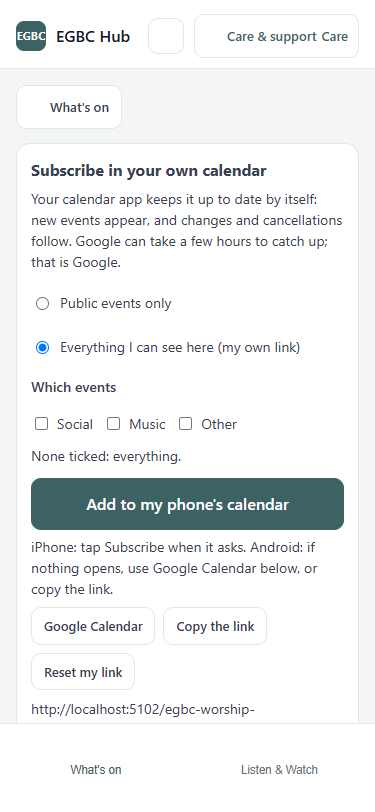
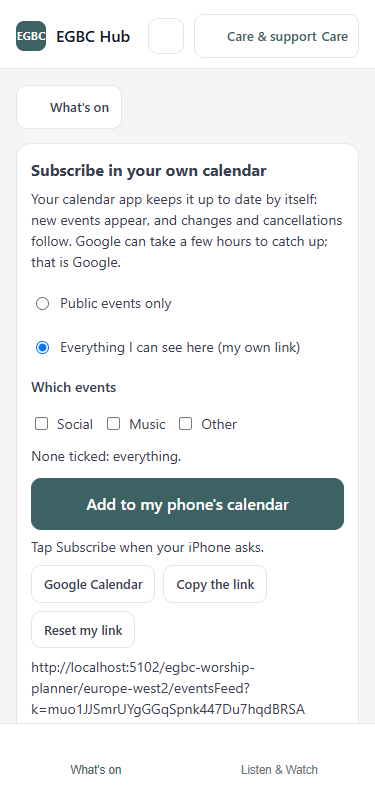
Events: Subscribe on Android, Email me the link, the k3 register race (F-198)
Android leads with "Everything coming up is always in What's on in this
app."; adding it to Google or Outlook is optional, once on a computer,
with the steps, a big Copy and "Email me the link" (emailMyFeedLink:
the signed-in person's own address only, 5 an hour). No webcal button
on Android. Callables wait for the sign-in to settle (the
phone-subscribe flake). kids-checkin's register: only the latest draw
fills the table (k3-morning).

Changed region(s): [[0.0587, 0.6466, 0.8507, 0.8929]]

diff --git a/v2/egbc-events.js b/v2/egbc-events.js
@@ -587,13 +587,19 @@
     });
   }
 
-  /* ---- Subscribe in your own calendar (R7, F-182; on phones F-197) ----
+  /* ---- Subscribe in your own calendar (R7, F-182; phones F-197, F-198) ----
      One card for whatson.html and the app's What's on. The host keeps the
      state { signedIn, mine, cats, msg, copied } and draws subscribeHtml
      again after subscribeAct. Buttons and boxes carry ATTR="sub:...".
-     On a phone: one big "Add to my phone's calendar" (the webcal:// link:
-     iPhone's Calendar, and on Android whichever calendar app takes it),
-     then Google Calendar and "Copy the link" for when nothing opens. */
+       iPhone    one big "Add to my phone's calendar" (webcal://): iPhone's
+                 Calendar asks "Subscribe?"
+       Android   NO webcal button: Android has no webcal handler, and
+                 neither Google Calendar nor Outlook can subscribe from a
+                 link on the phone (Martin's phone, 15 Oct). It leads with
+                 "Everything coming up is always in What's on"; then, as
+                 optional, add it once on a computer: the steps, a big
+                 Copy, and "Email me the link" (own address only)
+       computer  Google / Apple or Outlook / Copy, as before */
   function feedBase() {
     var o = (global.firebase && firebase.apps.some(function (a) { return a.name === 'egbc'; }) ? firebase.app('egbc').options : {}) || {};
     var h = global.location.hostname, local = h === 'localhost' || h === '127.0.0.1';
@@ -604,35 +610,70 @@
     var mine = st.signedIn && st.mine;
     return feedBase() + (mine ? '?k=' + encodeURIComponent(st.mine) : '?church=1') + (st.cats && st.cats.length ? '&cat=' + st.cats.join(',') : '');
   }
-  function isPhone() {
+  function deviceKind() {
     var ua = (global.navigator && navigator.userAgent) || '';
-    return /iPhone|iPad|iPod|Android/i.test(ua) || (/Macintosh/.test(ua) && navigator.maxTouchPoints > 1);
+    if (/Android/i.test(ua)) return 'android';
+    if (/iPhone|iPad|iPod/i.test(ua) || (/Macintosh/.test(ua) && navigator.maxTouchPoints > 1)) return 'iphone';
+    return 'computer';
   }
-  function subscribeHtml(st, used, attr, phone) {
-    attr = attr || 'data-sub'; if (phone == null) phone = isPhone();
+  function isPhone() { return deviceKind() !== 'computer'; }
+  /* Callables need the sign-in settled: straight after a page opens it is
+     not yet, and EGBCAuth.call then fails (seen as a flake in
+     phone-subscribe.test, 15 Oct). */
+  function whenSignedIn() {
+    return new Promise(function (resolve) {
+      try { var a = firebase.auth(firebase.app('egbc')), off = a.onAuthStateChanged(function (u) { off(); resolve(u); }); }
+      catch (e) { resolve(null); }
+    });
+  }
+  function callSignedIn(name, data) {
+    return whenSignedIn().then(function (u) { if (!u) throw new Error('Sign in first.'); return global.EGBCAuth.call(name, data); });
+  }
+  function subscribeHtml(st, used, attr, kind) {
+    attr = attr || 'data-sub'; kind = kind || deviceKind();
     var mine = !!(st.signedIn && st.mine), url = feedUrl(st), web = url.replace(/^https?:/, 'webcal:');
     var google = 'https://calendar.google.com/calendar/r?cid=' + encodeURIComponent(web);
     var tick = 'style="display:flex;gap:8px;align-items:center;min-height:44px"';
-    return '<h2 style="margin:0 0 6px;font-size:16px">Subscribe in your own calendar</h2>' +
+    var big = 'display:flex;width:100%;justify-content:center;align-items:center;min-height:52px;font-size:16px;margin-top:10px;text-decoration:none';
+    var copy = function (cls, style) { return '<button class="btn ' + cls + '" id="subCopy" ' + attr + '="sub:copy"' + (style ? ' style="' + style + '"' : '') + '>' + (st.copied ? 'Copied' : 'Copy the link') + '</button>'; };
+    var reset = mine ? '<button class="btn ghost" id="subReset" ' + attr + '="sub:reset">Reset my link</button>' : '';
+    var ways;
+    if (kind === 'iphone') ways =
+      '<a class="btn primary" id="subPhone" href="' + esc(web) + '" style="' + big + ';margin-top:12px">Add to my phone\'s calendar</a>' +
+      '<p class="hint" style="margin:6px 0 0">Tap Subscribe when your iPhone asks.</p>' +
+      '<div style="display:flex;flex-wrap:wrap;gap:8px;margin-top:8px">' +
+        '<a class="btn sec" id="subGoogle" target="_blank" rel="noopener" href="' + esc(google) + '">Google Calendar</a>' + copy('sec') + reset + '</div>';
+    else if (kind === 'android') ways =
+      '<div id="subAndroid" style="margin-top:12px">' +
+      '<p class="hint" style="margin:0">On Android, add it once on a computer and it appears on your phone. Google Calendar and Outlook can\'t add it from a link on the phone itself.</p>' +
+      copy('sec', big) +
+      (st.signedIn ? '<button class="btn sec" id="subEmail" ' + attr + '="sub:email" style="' + big + ';margin-top:8px">Email me the link</button>' +
+        '<p class="hint" style="margin:4px 0 0">It goes to your own email address, so you can open it on a computer.</p>' : '') +
+      '<p style="margin:12px 0 2px;font-weight:600">Google Calendar, on a computer</p><ol style="margin:0;padding-left:22px">' +
+        '<li>Go to calendar.google.com</li><li>Next to "Other calendars", click +, then "From URL"</li><li>Paste the link and click "Add calendar"</li></ol>' +
+      '<p style="margin:10px 0 2px;font-weight:600">Outlook, on a computer</p><ol style="margin:0;padding-left:22px">' +
+        '<li>Go to outlook.com and open Calendar</li><li>Click "Add calendar", then "Subscribe from web"</li><li>Paste the link, give it a name, and click "Import"</li></ol>' +
+      '<p style="margin:10px 0 0"><b>Then on your phone:</b> Google Calendar &gt; Settings &gt; the new calendar &gt; Sync on.</p>' +
+      (reset ? '<div style="margin-top:8px">' + reset + '</div>' : '') + '</div>';
+    else ways =
+      '<div style="display:flex;flex-wrap:wrap;gap:8px;margin-top:10px">' +
+        '<a class="btn" id="subGoogle" target="_blank" rel="noopener" href="' + esc(google) + '">Add to Google Calendar</a>' +
+        '<a class="btn sec" id="subApple" href="' + esc(web) + '">Apple or Outlook</a>' + copy('sec') + reset + '</div>';
+    /* Martin, 15 Oct: on Android, lead with the app; the calendar set-up is
+       optional, never a second app required, and never the one-off .ics
+       offered as "subscribe". */
+    var head = kind === 'android'
+      ? '<p id="subLead" style="margin:0 0 14px;font-weight:600;font-size:17px;color:var(--ink,#111827)">' + (attr === 'data-wact' ? 'Everything coming up is always in What\'s on in this app.' : 'Everything coming up is always here, in What\'s on.') + '</p>' +
+        '<h2 style="margin:0 0 6px;font-size:15px">Also in Google Calendar or Outlook (optional)</h2>'
+      : '<h2 style="margin:0 0 6px;font-size:16px">Subscribe in your own calendar</h2>';
+    return head +
       '<p class="hint" style="margin:0 0 8px">Your calendar app keeps it up to date by itself: new events appear, and changes and cancellations follow. Google can take a few hours to catch up; that is Google.</p>' +
       (st.signedIn ? '<label class="check" ' + tick + '><input type="radio" name="subWho" value="public" ' + attr + '="sub:who:public"' + (mine ? '' : ' checked') + '>Public events only</label>' +
         '<label class="check" ' + tick + '><input type="radio" name="subWho" value="mine" ' + attr + '="sub:who:mine"' + (mine ? ' checked' : '') + '>Everything I can see here (my own link)</label>' : '') +
       '<p style="margin:8px 0 4px;font-weight:600">Which events</p><div style="display:flex;flex-wrap:wrap;gap:10px">' +
         CATEGORIES.filter(function (c) { return used[c.id]; }).map(function (c) {
           return '<label class="check" style="display:flex;gap:6px;align-items:center;min-height:44px"><input type="checkbox" class="subCat" value="' + esc(c.id) + '" ' + attr + '="sub:cat:' + esc(c.id) + '"' + ((st.cats || []).indexOf(c.id) >= 0 ? ' checked' : '') + '>' + esc(c.name) + '</label>'; }).join('') +
-      '</div><p class="hint" style="margin:0">None ticked: everything.</p>' +
-      (phone
-        ? '<a class="btn primary" id="subPhone" href="' + esc(web) + '" style="display:flex;width:100%;justify-content:center;align-items:center;min-height:52px;font-size:16px;margin-top:12px;text-decoration:none">Add to my phone\'s calendar</a>' +
-          '<p class="hint" style="margin:6px 0 0">iPhone: tap Subscribe when it asks. Android: if nothing opens, use Google Calendar below, or copy the link.</p>' +
-          '<div style="display:flex;flex-wrap:wrap;gap:8px;margin-top:8px">' +
-            '<a class="btn sec" id="subGoogle" target="_blank" rel="noopener" href="' + esc(google) + '">Google Calendar</a>' +
-            '<button class="btn sec" id="subCopy" ' + attr + '="sub:copy">' + (st.copied ? 'Copied' : 'Copy the link') + '</button>' +
-            (mine ? '<button class="btn ghost" id="subReset" ' + attr + '="sub:reset">Reset my link</button>' : '') + '</div>'
-        : '<div style="display:flex;flex-wrap:wrap;gap:8px;margin-top:10px">' +
-            '<a class="btn" id="subGoogle" target="_blank" rel="noopener" href="' + esc(google) + '">Add to Google Calendar</a>' +
-            '<a class="btn sec" id="subApple" href="' + esc(web) + '">Apple or Outlook</a>' +
-            '<button class="btn sec" id="subCopy" ' + attr + '="sub:copy">' + (st.copied ? 'Copied' : 'Copy the link') + '</button>' +
-            (mine ? '<button class="btn ghost" id="subReset" ' + attr + '="sub:reset">Reset my link</button>' : '') + '</div>') +
+      '</div><p class="hint" style="margin:0">None ticked: everything.</p>' + ways +
       '<p class="hint" id="subUrl" style="overflow-wrap:anywhere;margin:8px 0 0">' + esc(url) + '</p><p class="hint" id="subMsg" role="status">' + esc(st.msg || '') + '</p>' +
       (mine ? '<p class="hint" style="margin:4px 0 0">Your own link shows members\' and team events, so keep it to yourself. Reset makes a new one and the old one stops working.</p>' : '');
   }
@@ -645,16 +686,21 @@
       return Promise.resolve();
     }
     if (a === 'who:public') { st.mine = ''; return Promise.resolve(); }
-    if (a === 'who:mine') return global.EGBCAuth.call('myEventsFeed', {}).then(function (x) { st.mine = x.key; }, function (e) { st.msg = e.message || String(e); });
+    if (a === 'who:mine') return callSignedIn('myEventsFeed', {}).then(function (x) { st.mine = x.key; }, function (e) { st.msg = e.message || String(e); });
     if (a === 'copy') {
       var url = feedUrl(st);
       return (global.navigator && navigator.clipboard ? navigator.clipboard.writeText(url) : Promise.reject()).then(function () {
         st.copied = true; st.msg = 'Copied. In Google Calendar on a computer: Other calendars, +, From URL, then paste it.';
       }, function () { st.msg = 'Copy this link: ' + url; });
     }
+    if (a === 'email') {
+      return callSignedIn('emailMyFeedLink', { mine: !!(st.signedIn && st.mine), cats: (st.cats || []).slice() }).then(function () {
+        st.msg = 'Sent to your email. Open it on a computer and follow the steps.';
+      }, function (e) { st.msg = e.message || String(e); });
+    }
     if (a === 'reset') {
       if (!global.confirm('Make a new link? The old one stops working, in every calendar it is in.')) return Promise.resolve();
-      return global.EGBCAuth.call('myEventsFeed', { reset: true }).then(function (x) { st.mine = x.key; st.msg = 'A new link: add it to your calendar again.'; }, function (e) { st.msg = e.message || String(e); });
+      return callSignedIn('myEventsFeed', { reset: true }).then(function (x) { st.mine = x.key; st.msg = 'A new link: add it to your calendar again.'; }, function (e) { st.msg = e.message || String(e); });
     }
     return Promise.resolve();
   }
@@ -810,6 +856,7 @@
     callPublic: callPublic,
     feedUrl: feedUrl,
     isPhone: isPhone,
+    deviceKind: deviceKind,
     subscribeHtml: subscribeHtml,
     subscribeAct: subscribeAct,
     CLOSED_WORDS: CLOSED_WORDS,

diff --git a/v2/functions/events-feed.js b/v2/functions/events-feed.js
@@ -20,7 +20,9 @@
    - Never a not-listed or not-yet-public event; never another team's.
    - From 30 days ago to 18 months ahead.
 
-     myEventsFeed   callable: the signed-in person's own link (and Reset)
+     myEventsFeed      callable: the signed-in person's own link (and Reset)
+     emailMyFeedLink   callable: email the link to the signed-in person's OWN
+                       address, to add on a computer (Android, F-198)
 
    The events window's file. Exported from index.js the way public-mail.js
    is.
@@ -30,6 +32,7 @@ import crypto from 'node:crypto';
 import { onCall, onRequest, HttpsError } from 'firebase-functions/v2/https';
 import { getFirestore, FieldValue } from 'firebase-admin/firestore';
 import { hubUrl } from './notify.js';
+import { makeSender } from './public-mail.js';
 
 const db = () => getFirestore();
 const REGION = 'europe-west2';
@@ -177,17 +180,66 @@ export const eventsFeed = onRequest({ region: REGION, cors: false, invoker: 'pub
 
 /* The signed-in person's own link: made once, kept, and Reset makes a new
    one (the old link stops working at once). */
-export const myEventsFeed = onCall({ region: REGION }, async (req) => {
+async function activeUser(req) {
   const uid = req.auth && req.auth.uid;
   if (!uid) throw new HttpsError('unauthenticated', 'Sign in first.');
   const u = await db().collection('users').doc(uid).get();
   if (!u.exists || u.data().status !== 'active') throw new HttpsError('permission-denied', 'Your account is not active.');
+  return { uid, user: u.data() };
+}
+async function keyFor(uid, reset) {
   const mine = await db().collection('eventFeeds').where('uid', '==', uid).get();
-  if (mine.size && !(req.data && req.data.reset)) return { key: mine.docs[0].id };
+  if (mine.size && !reset) return mine.docs[0].id;
   const batch = db().batch();
   mine.docs.forEach((d) => batch.delete(d.ref));
   const key = crypto.randomBytes(24).toString('base64').replace(/[^A-Za-z0-9]/g, '').slice(0, 32);
   batch.set(db().collection('eventFeeds').doc(key), { uid, createdAt: FieldValue.serverTimestamp() });
   await batch.commit();
-  return { key, reset: !!(req.data && req.data.reset) };
+  return key;
+}
+export const myEventsFeed = onCall({ region: REGION }, async (req) => {
+  const { uid } = await activeUser(req);
+  const reset = !!(req.data && req.data.reset);
+  return { key: await keyFor(uid, reset), ...(reset ? { reset: true } : {}) };
+});
+
+/* The feed's own address, as the pages build it (egbc-events.js feedUrl). */
+export function feedLink({ project, emulator, key, cats }) {
+  const base = emulator ? 'http://localhost:5102/' + project + '/europe-west2/eventsFeed' : 'https://europe-west2-' + project + '.cloudfunctions.net/eventsFeed';
+  return base + (key ? '?k=' + encodeURIComponent(key) : '?church=1') + (cats.length ? '&cat=' + cats.join(',') : '');
+}
+const htmlEsc = (t) => String(t == null ? '' : t).replace(/[&<>"]/g, (c) => ({ '&': '&amp;', '<': '&lt;', '>': '&gt;', '"': '&quot;' }[c]));
+export function feedLinkEmail({ link, church, mine }) {
+  const a = '<a href="' + htmlEsc(link) + '">' + htmlEsc(link) + '</a>';
+  return {
+    subject: (church ? church + ': ' : '') + 'your What\'s on calendar link',
+    html: '<p>Here is the link to What\'s on, to add to your calendar. Open this email on a computer.</p>' +
+      '<p style="font-size:15px;word-break:break-all">' + a + '</p>' +
+      '<p><b>Google Calendar</b></p><ol><li>Go to calendar.google.com</li><li>Next to "Other calendars", click +, then "From URL"</li><li>Paste the link and click "Add calendar"</li></ol>' +
+      '<p><b>Outlook</b></p><ol><li>Go to outlook.com and open Calendar</li><li>Click "Add calendar", then "Subscribe from web"</li><li>Paste the link, give it a name, and click "Import"</li></ol>' +
+      '<p><b>Then on your phone:</b> Google Calendar &gt; Settings &gt; the new calendar &gt; Sync on.</p>' +
+      (mine ? '<p>This is your own link: it shows members\' and team events, so please keep it to yourself.</p>' : '') +
+      '<p style="color:#6b7280">You asked for this on the church hub. If you did not, you can ignore it.</p>'
+  };
+}
+/* Only ever to the signed-in person's own address: nothing in the request
+   can choose who it goes to. A few an hour at most. */
+export const emailMyFeedLink = onCall({ region: REGION }, async (req) => {
+  const { uid, user } = await activeUser(req);
+  const to = String(user.email || (req.auth.token && req.auth.token.email) || '').trim();
+  if (!/^[^@\s]+@[^@\s]+$/.test(to)) throw new HttpsError('failed-precondition', 'There is no email address on your account.');
+  const ref = db().collection('feedLinkSent').doc(uid), now = Date.now();
+  const times = ((await ref.get()).data() || {}).times || [];
+  const recent = times.filter((t) => t > now - 3600e3);
+  if (recent.length >= 5) throw new HttpsError('resource-exhausted', 'That has been sent a few times already. Look in your email, or try again in an hour.');
+  const d = req.data || {};
+  const cats = (Array.isArray(d.cats) ? d.cats : []).map(String).filter((c) => /^[a-z0-9-]{1,40}$/.test(c)).slice(0, 20);
+  const mine = d.mine === true;
+  const link = feedLink({ project: process.env.GCLOUD_PROJECT || JSON.parse(process.env.FIREBASE_CONFIG || '{}').projectId, emulator: process.env.FUNCTIONS_EMULATOR === 'true', key: mine ? await keyFor(uid, false) : '', cats });
+  const church = await db().collection('churchSettings').doc('details').get();
+  const msg = feedLinkEmail({ link, church: church.exists ? church.data().name : '', mine });
+  await ref.set({ times: recent.concat([now]) });
+  const out = await makeSender({ db: db() })({ to: [to], subject: msg.subject, html: msg.html }, { source: 'events-feed', kind: 'calendar link' });
+  if (!out.ok) throw new HttpsError('unavailable', 'The email could not be sent. Copy the link instead.');
+  return { ok: true };
 });

diff --git a/v2/kids-checkin.html b/v2/kids-checkin.html
@@ -15,7 +15,7 @@
 <script src="egbc-church.js?v=202610121600"></script>
 <script src="egbc-guard.js?v=202610121600"></script>
 <script src="egbc-email.js?v=202610081729"></script>
-<script src="egbc-events.js?v=202610151200"></script>
+<script src="egbc-events.js?v=202610151500"></script>
 <script src="egbc-events-forms.js?v=202610081500"></script>
 <script src="egbc-events-kids.js?v=202610141700"></script>
 <script src="egbc-notify-core.js?v=202610111300"></script>
@@ -606,7 +606,12 @@
   }
 
   /* ================= registers ================= */
+  /* Only the latest draw may fill the table: changing "Which weeks" then
+     the dates starts two loads, and the slower (longer) one used to land
+     last and show the wrong weeks. */
+  var REG_DRAW = 0;
   function drawRegister(el) {
+    var drawNo = ++REG_DRAW;
     var gs = visibleGroups();
     if (!gs.length) { el.innerHTML = '<div class="card hint">No groups yet.</div>'; return; }
     if (!V.rgroup || !gs.some(function (g) { return g.id === V.rgroup; })) V.rgroup = gs[0].id;
@@ -636,6 +641,7 @@
       var q = LEAD ? db().collection('checkins').where('siteId', '==', V.site).where('day', '==', d) : db().collection('checkins').where('groupId', '==', g.id).where('day', '==', d);
       return q.get().then(all).then(function (l) { return l.filter(function (k) { return k.groupId === g.id; }); });
     })).then(function (lists) {
+      if (drawNo !== REG_DRAW) return;
       var reg = K.register(CHILDREN.filter(function (c) { return c.groupId === g.id; }), [].concat.apply([], lists), dates);
       var short = function (d) { return +d.slice(8, 10) + '/' + +d.slice(5, 7); };
       var b = document.getElementById('reg-body'); if (!b) return;

diff --git a/v2/functions/comms.js b/v2/functions/comms.js
@@ -28,7 +28,8 @@ const db = () => getFirestore();
 const WHAT = {
   signup: 'Sign-up confirmation', 'booking waiting': 'Booking: waiting for approval', 'booking request': 'Booking request to the office',
   'cancel ask': 'Booking: asked to cancel', 'form received': 'Form received', 'group ask': 'Asked to join a small group', 'group ask leaders': 'Small group: leaders told', 'new here': 'Someone new said hello',
-  'checklist tomorrow': 'Checklist: due tomorrow', 'checklist overdue': 'Checklist: overdue'
+  'checklist tomorrow': 'Checklist: due tomorrow', 'checklist overdue': 'Checklist: overdue',
+  'calendar link': 'Calendar link (to themselves)'
 };
 export function whatOf(row) {
   const k = String(row.kind || '').trim();

diff --git a/v2/giftaid.html b/v2/giftaid.html
@@ -14,7 +14,7 @@
 <script src="egbc-auth.js?v=202610141800"></script>
 <script src="egbc-guard.js?v=202610121600"></script>
 <script src="egbc-church.js?v=202610121600"></script>
-<script src="egbc-events.js?v=202610151200"></script>
+<script src="egbc-events.js?v=202610151500"></script>
 <link href="https://fonts.googleapis.com/css2?family=Inter:wght@400;500;600;700&display=swap" rel="stylesheet">
 <style>
   :root{--brand:#3d6263;--brand-dark:#2a4a4b;--tint:#eef5f4;--ink:#111827;--body:#374151;--muted:#6b7280;--line:#e5e7eb;--line-2:#d1d5db;--canvas:#f6f7f7;--ok:#15803d;--ok-bg:#ecfdf3;--danger:#b0392c}

diff --git a/v2/comms.html b/v2/comms.html
@@ -15,7 +15,7 @@
 <script src="https://www.gstatic.com/firebasejs/10.12.2/firebase-firestore-compat.js"></script>
 <script src="egbc-auth.js?v=202610141800"></script>
 <script src="egbc-church.js?v=202610121600"></script>
-<script src="egbc-events.js?v=202610151200"></script>
+<script src="egbc-events.js?v=202610151500"></script>
 <link href="https://fonts.googleapis.com/css2?family=Inter:wght@400;500;600;700&display=swap" rel="stylesheet">
 <style>
   :root{--brand:#3d6263;--tint:#eef5f4;--ink:#111827;--body:#374151;--muted:#6b7280;--line:#e5e7eb;--line-2:#d1d5db;--canvas:#f6f7f7;

diff --git a/v2/give-regularly.html b/v2/give-regularly.html
@@ -16,7 +16,7 @@
 <script src="https://www.gstatic.com/firebasejs/10.12.2/firebase-firestore-compat.js"></script>
 <script src="egbc-auth.js?v=202610141800"></script>
 <script src="egbc-church.js?v=202610121600"></script>
-<script src="egbc-events.js?v=202610151200"></script>
+<script src="egbc-events.js?v=202610151500"></script>
 <link href="https://fonts.googleapis.com/css2?family=Inter:wght@400;500;600;700&display=swap" rel="stylesheet">
 <style>
   :root{--brand:#3d6263;--tint:#eef5f4;--ink:#111827;--body:#374151;--muted:#6b7280;--line:#e5e7eb;--line-2:#d1d5db;--canvas:#f6f7f7;

diff --git a/v2/payments.html b/v2/payments.html
@@ -16,7 +16,7 @@
 <script src="https://www.gstatic.com/firebasejs/10.12.2/firebase-firestore-compat.js"></script>
 <script src="egbc-auth.js?v=202610141800"></script>
 <script src="egbc-church.js?v=202610121600"></script>
-<script src="egbc-events.js?v=202610151200"></script>
+<script src="egbc-events.js?v=202610151500"></script>
 <link href="https://fonts.googleapis.com/css2?family=Inter:wght@400;500;600;700&display=swap" rel="stylesheet">
 <style>
   :root{--brand:#3d6263;--tint:#eef5f4;--ink:#111827;--body:#374151;--muted:#6b7280;--line:#e5e7eb;--line-2:#d1d5db;--canvas:#f6f7f7;

diff --git a/v2/whatson-embed.html b/v2/whatson-embed.html
@@ -27,7 +27,7 @@
 <script src="https://www.gstatic.com/firebasejs/10.12.2/firebase-firestore-compat.js"></script>
 <script src="egbc-auth.js?v=202610141800"></script>
 <script src="egbc-church.js?v=202610121600"></script>
-<script src="egbc-events.js?v=202610151200"></script>
+<script src="egbc-events.js?v=202610151500"></script>
 <link href="https://fonts.googleapis.com/css2?family=Inter:wght@400;500;600;700&display=swap" rel="stylesheet">
 <style>
   :root{--accent:#3d6263;--ink:#111827;--body:#374151;--muted:#6b7280;--line:#e5e7eb;--tint:#eef5f4}

diff --git a/v2/forms-admin.html b/v2/forms-admin.html
@@ -15,7 +15,7 @@
 <script src="egbc-guard.js?v=202610121600" data-admin="any"></script>
 <script src="egbc-email.js?v=202610081729"></script>
 <script src="egbc-ics.js?v=202610091200"></script>
-<script src="egbc-events.js?v=202610151200"></script>
+<script src="egbc-events.js?v=202610151500"></script>
 <script src="egbc-events-checkin.js?v=202610141700"></script>
 <script src="egbc-events-forms.js?v=202610080900"></script>
 <link href="https://fonts.googleapis.com/css2?family=Inter:wght@400;500;600;700&display=swap" rel="stylesheet">

diff --git a/v2/my-booking.html b/v2/my-booking.html
@@ -15,7 +15,7 @@
 <script src="egbc-church.js?v=202610121600"></script>
 <script src="egbc-poweredby.js?v=202610081518"></script>
 <script src="egbc-email.js?v=202610081729"></script>
-<script src="egbc-events.js?v=202610151200"></script>
+<script src="egbc-events.js?v=202610151500"></script>
 <script src="egbc-events-bookings.js?v=202610141700"></script>
 <script src="egbc-events-quote.js?v=202610101700"></script>
 <link href="https://fonts.googleapis.com/css2?family=Inter:wght@400;500;600;700&display=swap" rel="stylesheet">

diff --git a/v2/safeguarding.html b/v2/safeguarding.html
@@ -16,7 +16,7 @@
 <script src="egbc-guard.js?v=202610121600"></script>
 <script src="egbc-email.js?v=202610081729"></script>
 <script src="egbc-ics.js?v=202610091200"></script>
-<script src="egbc-events.js?v=202610151200"></script>
+<script src="egbc-events.js?v=202610151500"></script>
 <script src="egbc-events-checkin.js?v=202610141700"></script>
 <script src="egbc-events-safeguarding.js?v=202610111200"></script>
 <link href="https://fonts.googleapis.com/css2?family=Inter:wght@400;500;600;700&display=swap" rel="stylesheet">
